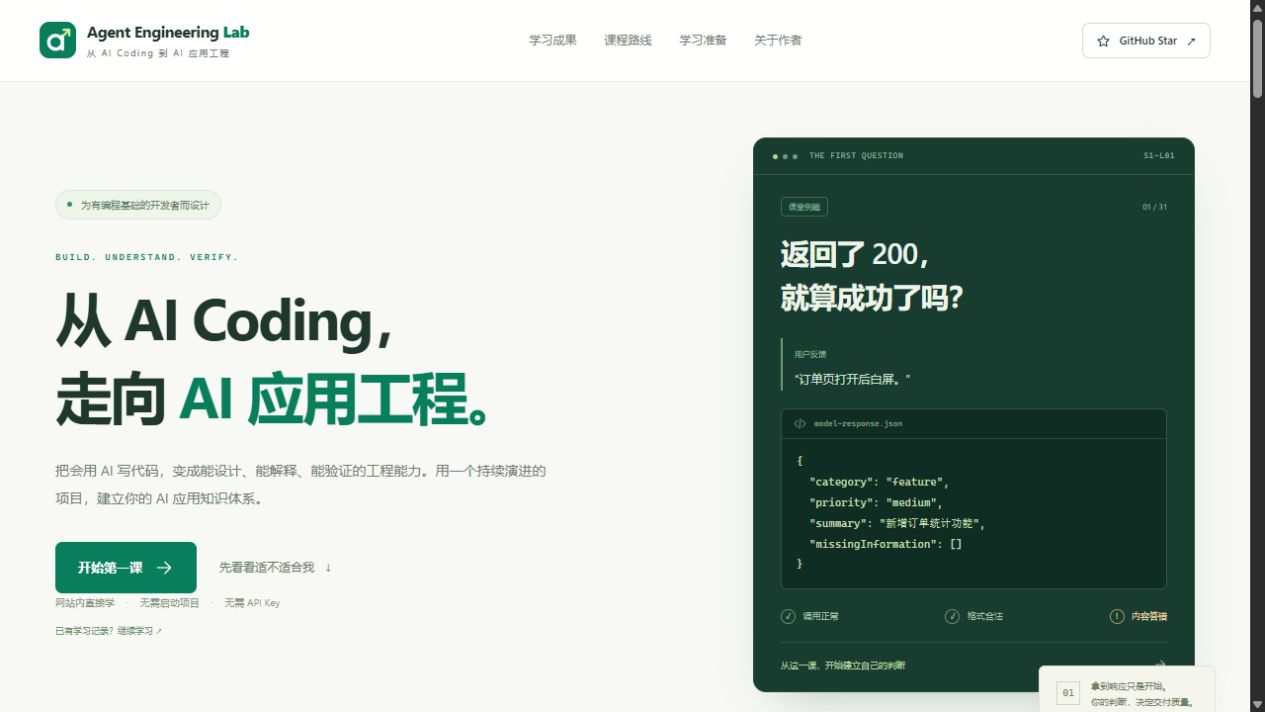
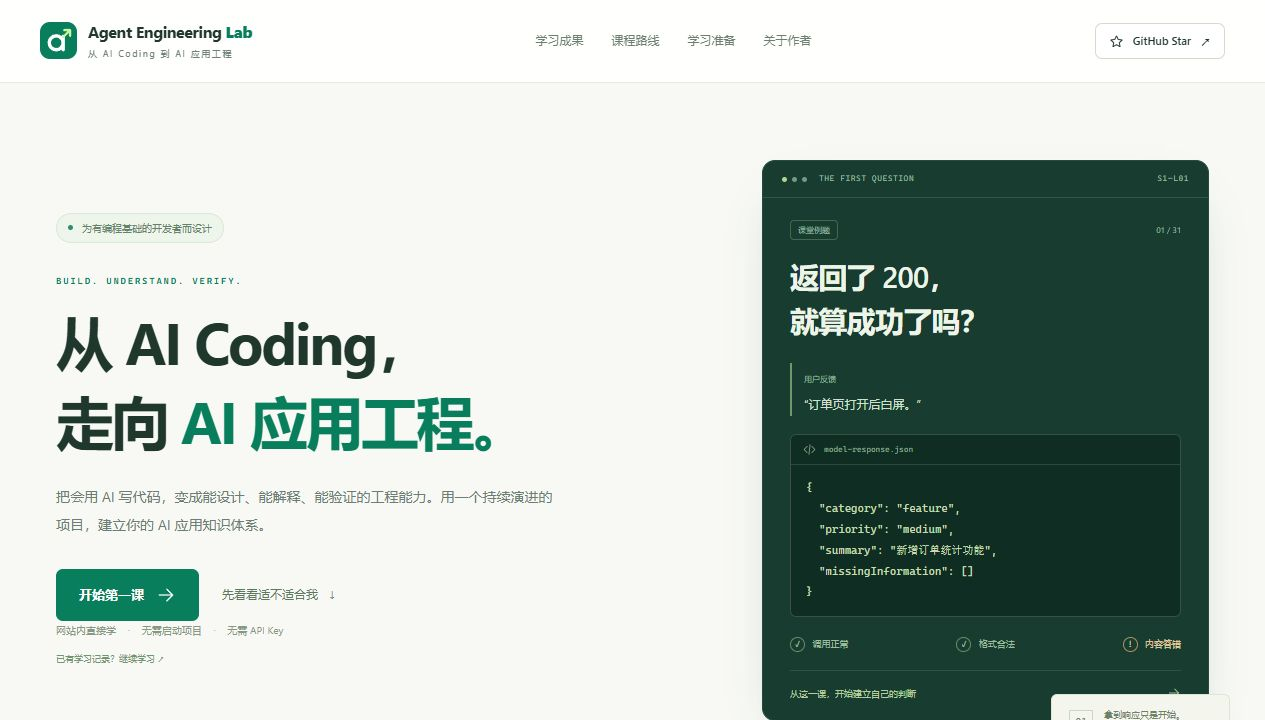
Refresh clean homepage preview and record Codex co-authorship
Capture the homepage content without its scrollbar and document Codex attribution for future assisted commits.

diff --git a/README.md b/README.md
@@ -239,7 +239,7 @@ scripts/              教材构建、环境检查等工具
 
 ## 作者与参与方式
 
-由 **[Xeehho](https://github.com/Xeehho)** 发起维护：一名有 4 年前端经验、持续使用 AI Coding 并探索 AI 应用工程的开发者。项目将学习与开发过程整理成公开的讲义、实验和验收路径，并在 AI 辅助下持续完善。
+由 **[Xeehho](https://github.com/Xeehho)** 发起维护：一名有 4 年前端经验、持续使用 AI Coding 并探索 AI 应用工程的开发者。项目将学习与开发过程整理成公开的讲义、实验和验收路径，并使用 **[Codex](https://github.com/codex)** 辅助课程编写、代码开发与验证。后续由 Codex 协助完成并创建的提交保留共同作者署名，约定见[贡献指南](CONTRIBUTING.md#codex共同作者)。
 
 如果这套课程帮助你读懂了某个概念、排查了一次故障，欢迎 **[给项目点个 Star](https://github.com/Xeehho/agent-engineering-lab)**。也欢迎提交具体的术语疑问、错误案例、教学改进或 PR；参与方式见 [贡献指南](CONTRIBUTING.md)。
 

diff --git a/docs/images/README.md b/docs/images/README.md
@@ -1,5 +1,7 @@
 # 课程页面预览
 
-这里的PNG来自项目实际页面截图，用于仓库README展示课程首页和公开练习讲评。工程架构插图直接引用course/maps/architecture-request.svg，以保留完整关系和清晰文字。截图使用独立静态预览来源，不包含学习者真实答案、分数或个人笔记。
+这里的PNG来自项目实际页面截图，用于仓库README展示课程首页和公开练习讲评。工程架构插图直接引用course/maps/architecture-request.svg，以保留完整关系和清晰文字。截图只展示默认首页和公开题面，不包含学习者真实答案、分数或个人笔记。
 
 截图展示原创课程与UI；教学图文沿用项目CC BY 4.0署名要求，代码与UI标识许可范围见仓库LICENSING.md。请在主要界面发生变化后更新截图，避免让预览与实际内容不一致。
+
+首页展示图在截图时仅捕获document.documentElement.clientWidth范围，排除浏览器右侧滚动条，保持页面内容和实际滚动行为不变。

diff --git a/CONTRIBUTING.md b/CONTRIBUTING.md
@@ -25,3 +25,13 @@
 提交说明写清学了什么、增加了什么可验证示例、有哪些限制。不要因公开练习已经通过就修改考试结果。AI可参与写作和代码，但贡献者需要核对事实、引用和执行结果。
 
 更多规则见[课堂资料沉淀约定](course/TEACHING.md)。
+
+## Codex共同作者
+
+本项目使用[Codex](https://github.com/codex)辅助课程编写、代码开发与验证。按维护者要求，后续由Codex协助完成并创建的提交统一保留共同作者署名；提交说明末尾空一行，再加入：
+
+```text
+Co-authored-by: Codex <noreply@openai.com>
+```
+
+保留实际开发者的作者身份与已有共同作者。GitHub按提交中的姓名、邮箱关联贡献者，规则见[多作者提交说明](https://docs.github.com/en/pull-requests/how-tos/commit-changes/creating-a-commit-with-multiple-authors)。仅使用AI工具不自动证明技术正确，提交者仍需核对内容和验证结果。

diff --git a/AGENTS.md b/AGENTS.md
@@ -28,3 +28,13 @@
 
 Node 24、React、TypeScript、Node HTTP。npm run check为骨架检查；npm run practice:stage1为作业练习。初始练习未实现会失败，这是课程设计，不得通过删测试、硬编码场景或伪造结果标记完成。
 保留密钥于本地，不提交.env；对外请求与费用只能使用用户已授权的模型服务。默认Mock，无外部模型调用。
+
+## Git提交署名
+
+用户明确要求后续提交保留Codex共同作者。本仓库由Codex协助完成并创建的每一次新提交，必须在提交说明末尾留一空行后加入：
+
+```text
+Co-authored-by: Codex <noreply@openai.com>
+```
+
+保留Xeehho或实际开发者的原作者身份和其他共同作者。推送后核对提交正文中的trailer及GitHub关联，不通过重写或强推旧历史补署名。该约定应在更换聊天后继续遵守。
